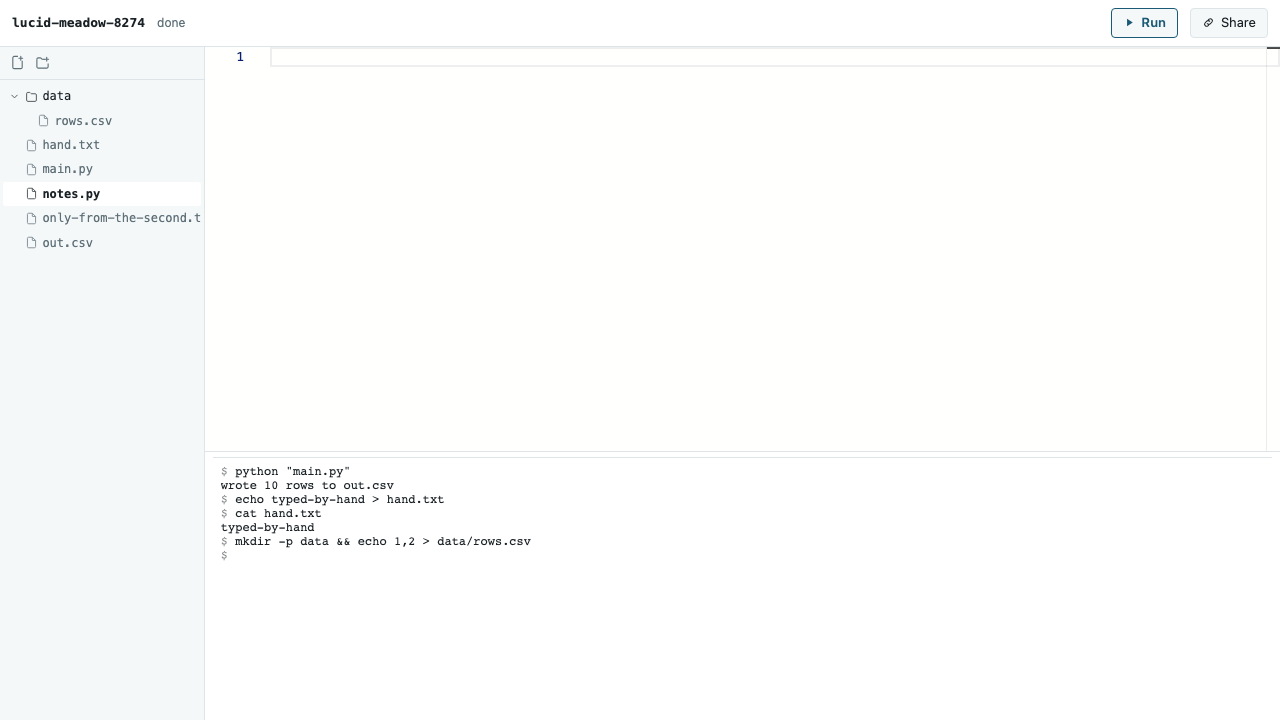
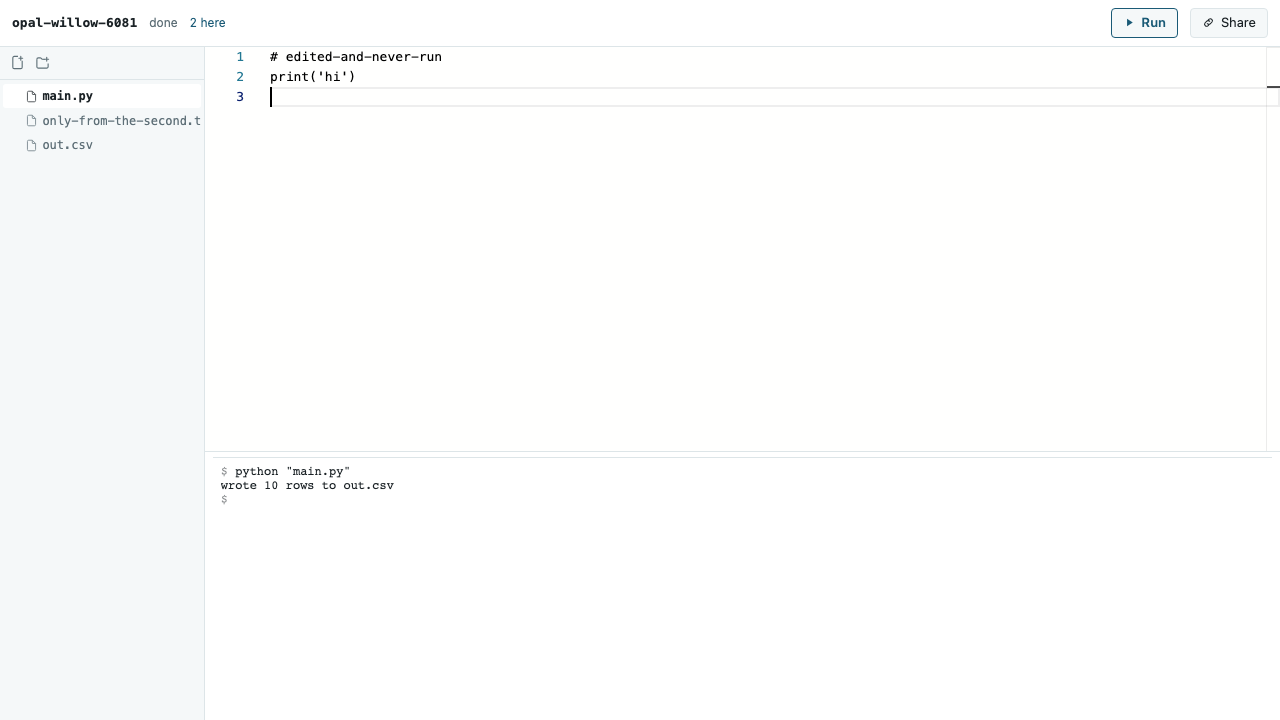
pad: typing syncs, which it never did
Two people in one folder saw each other's presence and none of each
other's work. Only a command ever published — `publish` diffs the
sandbox, and editor text only reaches the sandbox when Run flushes it, so
editing and never running meant editing into a void. Nothing saved it
either: a reload lost the lot.

Edits now save on a 500ms debounce and nudge the folder, and the save
path does not wait for the runtime — the store takes the text directly,
so the first save does not sit behind a 60 MB download.

Three things that had to be right for this not to make things worse.

The listener is per model, not on the editor. `onDidChangeModelContent`
fires only for whichever model is attached, so a change to any other file
would never have been noticed — and the first version of the check
proved nothing because it poked a background model that raised no event.

A remote change is not an edit. Writing one into the editor fires the
same event as typing, so without a flag every update bounces straight
home and two browsers push the same content at each other forever.

And anything that diffs the sandbox now flushes the models first. The
editor holds the text, the sandbox holds the file; a typed command
publishing while they disagree takes the sandbox's older copy as truth
and pushes it over what somebody just wrote.

A failed save puts its paths back and retries. An unsaved change that
nothing will retry is the one failure this cannot afford.
[…]

diff --git a/pad/src/app.ts b/pad/src/app.ts
@@ -46,6 +46,11 @@ export class App {
   private peers: Peers | null = null;
   private busy = false;
   private missed = false;
+  /** Models edited since the last save. */
+  private dirty = new Set<string>();
+  private saveTimer: ReturnType<typeof setTimeout> | null = null;
+  /** Set while a remote change is being written into the editor. */
+  private applyingRemote = false;
 
   constructor(
     private readonly name: string,
@@ -130,6 +135,7 @@ export class App {
     const rt = this.runtime ? await this.runtime : null;
     const incoming = knownFrom(pad.files);
 
+    this.applyingRemote = true;
     for (const [path, content] of incoming) {
       if (this.known.get(path) === content) continue;
       this.setFile(path, content);
@@ -142,6 +148,7 @@ export class App {
       this.models.get(path)?.dispose();
       this.models.delete(path);
     }
+    this.applyingRemote = false;
     this.known = incoming;
     if (!this.models.has(this.active)) {
       const first = [...this.models.keys()].sort()[0];
@@ -185,7 +192,20 @@ export class App {
       return;
     }
     const language = path.endsWith(".py") ? "python" : path.endsWith(".json") ? "json" : "plaintext";
-    this.models.set(path, this.monaco.editor.createModel(content, language));
+    const model = this.monaco.editor.createModel(content, language);
+    // Per model, not on the editor. `onDidChangeModelContent` fires only for
+    // whichever model is attached right now, so a change to any other file —
+    // including one arriving from the shell — would never be noticed.
+    model.onDidChangeContent(() => {
+      this.warm();
+      // A change the page just wrote in on somebody else's behalf is not an
+      // edit to send back. Without this every remote update bounces straight
+      // home and two browsers push the same content at each other forever.
+      if (this.applyingRemote) return;
+      this.dirty.add(path);
+      this.saveSoon();
+    });
+    this.models.set(path, model);
     if (!this.active) this.show(path);
   }
 
@@ -256,6 +276,64 @@ export class App {
     this.tree.render([...this.models.keys()], this.active);
   }
 
+
+  /**
+   * Save what has been typed, shortly.
+   *
+   * Debounced rather than immediate: a burst of typing is one save, and every
+   * save is an HTTP write plus a nudge to everyone else in the folder. Long
+   * enough to coalesce a sentence, short enough that stopping to think means
+   * the other person already has it.
+   */
+  private saveSoon(): void {
+    if (this.saveTimer) clearTimeout(this.saveTimer);
+    this.saveTimer = setTimeout(() => void this.saveEdits(), 500);
+  }
+
+  private async saveEdits(): Promise<void> {
+    this.saveTimer = null;
+    const paths = [...this.dirty];
+    this.dirty.clear();
+    const changes = paths
+      .map((path) => ({ path, content: this.models.get(path)?.getValue() }))
+      .filter((c): c is { path: string; content: string } => c.content !== undefined)
+      .filter((c) => this.known.get(c.path) !== c.content);
+    if (changes.length === 0) return;
+
+    try {
+      const seq = await this.store.write(this.name, changes);
+      for (const c of changes) this.known.set(c.path, c.content);
+      // The sandbox too, when there is one, so a shell command run next sees
+      // what is on screen rather than what was there before the typing.
+      if (this.runtime) {
+        const rt = await this.runtime;
+        for (const c of changes) await rt.write(c.path, c.content);
+      }
+      this.peers?.moved(seq);
+      this.say("", "saved");
+    } catch (e) {
+      // Put them back: an unsaved change that nothing will retry is the one
+      // failure this product cannot afford.
+      for (const p of paths) this.dirty.add(p);
+      this.say("error", (e as Error).message);
+      this.saveSoon();
+    }
+  }
+
+  /**
+   * Write every edited model into the sandbox.
+   *
+   * Called before anything diffs the sandbox. The editor holds the text and
+   * the sandbox holds the file; if a typed command publishes while they
+   * disagree, the diff sees the sandbox's older copy as the truth and pushes
+   * it over what somebody just wrote.
+   */
+  private async flushModels(rt: Runtime): Promise<void> {
+    for (const path of this.dirty) {
+      const model = this.models.get(path);
+      if (model) await rt.write(path, model.getValue());
+    }
+  }
 
   // --------------------------------------------------------------- runtime
 
@@ -412,6 +490,7 @@ export class App {
 
   /** Push whatever the command changed, and show any new files it made. */
   private async publish(rt: Runtime): Promise<void> {
+    await this.flushModels(rt);
     const { changes, next } = await diff(rt, this.known);
     if (changes.length === 0) return;
     const seq = await this.store.write(this.name, changes);
